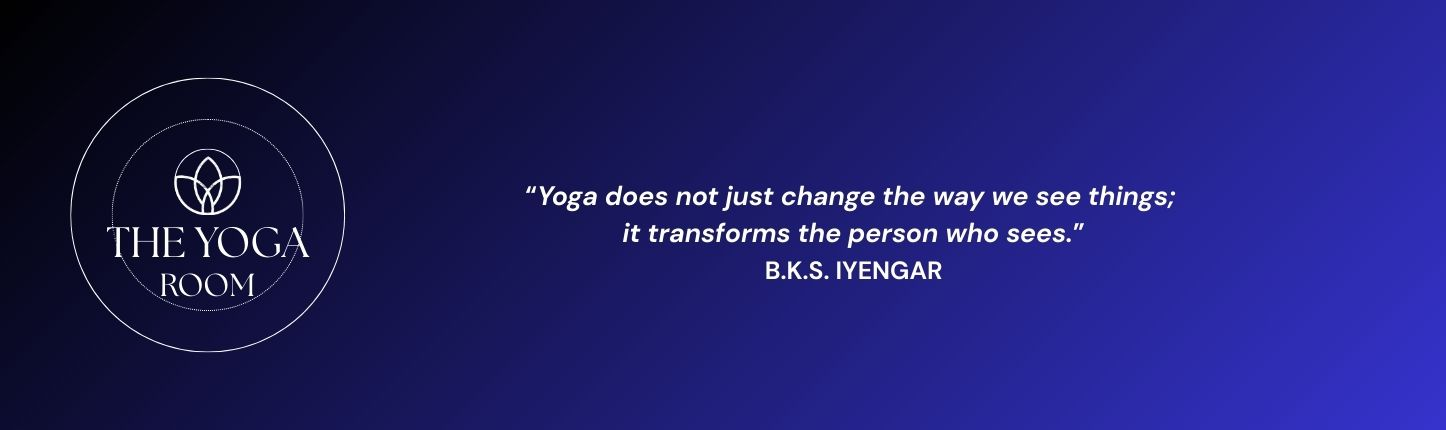
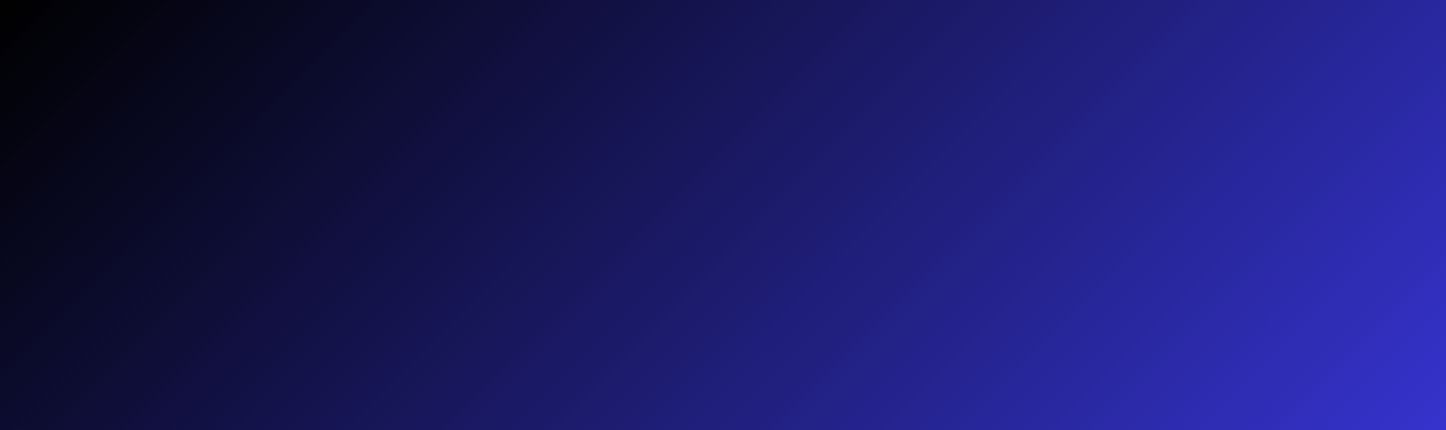
Update content

diff --git a/index.html b/index.html
@@ -5,6 +5,7 @@
 	Free for personal and commercial use under the CCA 3.0 license (html5up.net/license)
 -->
 <html>
+
 	<head>
 		<title>The Yoga Room - Find Your Center</title>
 		<meta charset="utf-8" />
@@ -13,56 +14,23 @@
 	</head>
 	<body class="is-preload">
 
-		<!-- Header -->
-			<section id="header">
-				<header>
-					<span class="image avatar"><img src="images/avatar.jpg" alt="" /></span>
-					<h1 id="logo">Find Your Center</h1>
-					<p><strong>The Yoga Room</strong><br />
-					Wincheringen & Luxembourg</p>
-				</header>
-				<nav id="nav">
-					<ul>
-						<li><a href="#one" class="active">About</a></li>
-						<li><a href="#two">Classes</a></li>
-						<li><a href="#three">Book a Class</a></li>
-						<li><a href="#four">Contact</a></li>
-					</ul>
-				</nav>
-				<footer>
-					<ul class="icons">
-						<li><a href="#" class="icon brands fa-facebook-f"><span class="label">Facebook</span></a></li>
-						<li><a href="#" class="icon brands fa-instagram"><span class="label">Instagram</span></a></li>
-						<li><a href="#" class="icon solid fa-envelope"><span class="label">Email</span></a></li>
-					</ul>
-				</footer>
-			</section>
 
-		<!-- Wrapper -->
-			<div id="wrapper">
 
 				<!-- Main -->
 					<div id="main">
-
 						<!-- One -->
-							<section id="one">
-								<div class="image main" data-position="center">
-									<img src="images/banner.jpg" alt="" />
+							<section class="hero">
+							<div class="hero-content">
+								<div class="logo-container">
+								<img src="images/avatar.jpg" alt="The Yoga Room Logo" class="logo">
 								</div>
-								<div class="container">
-							
-									<h2>About the Practice</h2>
-									</header>
-									<p><strong>The Yoga Room</strong> is your sanctuary for mindful movement and precise alignment. I focus on traditional yoga practices that connect breath, body, and mind.</p>
-
-									<p>Every class meets you where you are - whether beginning your journey or deepening existing practice. My approach emphasizes proper technique, therapeutic benefits, and individual growth.</p>
-
-									<p>Here, yoga isn't about perfection. It's about presence, patience, and discovering your own transformative path through disciplined practice and mindfulness.</p>
-									<p>Yoga is a journey of self-discovery beyond physical postures. Every body is unique - yoga should be accessible, safe, and transformative for all.</p>
-									<p>I blend traditional teachings with modern anatomy, creating a practice that honors ancient wisdom and contemporary knowledge. Whether seeking healing, stress relief, or growth - explore your potential with patience, kindness, and joy.</p>
+								<div class="text-box">
+								<h1>Yoga in small groups — dynamic, precise, and rooted in alignment.</h1>
+								<p>Classes for up to 5 students, with space to move, adjust, and grow in your practice.</p>
+								<a href="#schedule" class="btn">See Schedule</a>
 								</div>
+							</div>
 							</section>
-
 						<!-- Two -->
 							<section id="two">
 								<div class="container">
@@ -78,13 +46,41 @@
 									</ul>
 								</div>
 							</section>
+						
+							<section id="schedule">
+								<div class="container">
+  									<h2>Class Schedule</h2>	
+									<p>Join us for classes designed to meet you where you are, whether you're new to yoga or looking to deepen your practice.</p>
+										<table class="schedule-table">
+											<thead>
+											<tr>
+												<th>Day</th>
+												<th>Time</th>
+												<th>Details</th>
+											</tr>
+											</thead>
+											<tbody>
+											<tr>
+												<td>Tuesday</td>
+												<td>18:00 – 19:15</td>
+												<td>All levels · Max 5 students · €15</td>
+											</tr>
+											<tr>
+												<td>Friday</td>
+												<td>12:15 – 13:30</td>
+												<td>All levels · Max 5 students · €15</td>
+											</tr>
+											</tbody>
+										</table>
 
+										<p style="margin-top: 20px; font-size: 1em;">
+											Booking is required. Reserve your spot below.
+										</p>
+							</section>
 						<!-- Four - Booking Section -->
 							<section id="four">
 								<div class="container">
 									<h3>Book a Class</h3>
-									<p>Reserve your spot for a transformative yoga session. Each class meets you exactly where you are in your practice.</p>
-  
 									<div class="tidycal-embed" data-path="theyogaroom/yoga-class"></div>
 									<script src="https://asset-tidycal.b-cdn.net/js/embed.js" async></script>
 								</div>

diff --git a/assets/css/main.css b/assets/css/main.css
@@ -2444,8 +2444,8 @@ input, select, textarea {
 	}
 
 	table {
-		margin: 0 0 2.25em 0;
-		width: 100%;
+		margin: 0;
+		max-width: 100%;
 	}
 
 		table tbody tr {
@@ -2819,7 +2819,6 @@ input, select, textarea {
 
 	#wrapper {
 		background: #fff;
-		padding-right: 23em;
 	}
 
 /* Main */
@@ -3314,3 +3313,103 @@ input, select, textarea {
 			}
 
 	}
+.hero {
+  background: linear-gradient(to right, #0f0c29, #302b63, #24243e);
+  color: white;
+  padding: 40px 20px;
+}
+
+.hero-content {
+  max-width: 1200px;
+  margin: 0 auto;
+  display: flex;
+  align-items: center;
+  justify-content: center;
+  flex-wrap: wrap;
+  gap: 0px;
+}
+
+.logo-container {
+  flex: 1 1 100px;
+  display: flex;
+  justify-content: center;
+  align-items: center;
+
+}
+
+.logo {
+  max-width: 250px;
+  height: auto;
+}
+
+.text-box {
+  flex: 1 1 300px;
+  background-color: transparent;
+  padding: 0px;
+  border-radius: 16px;
+  text-align: left;
+}
+
+.text-box h1 {
+  font-size: 1.8rem;
+  margin-bottom: 15px;
+}
+
+.text-box p {
+  font-size: 1.1rem;
+  margin-bottom: 20px;
+}
+
+.btn {
+  background-color: white;
+  color: black;
+  padding: 10px 20px;
+  border-radius: 8px;
+  text-decoration: none;
+  font-weight: bold;
+  transition: background-color 0.3s ease;
+}
+
+.btn:hover {
+  background-color: #ddd;
+}
+
+
+.schedule-section {
+  padding: 40px 20px;
+  text-align: center;
+  background-color: #fdfdfd;
+}
+
+.schedule-section h2 {
+  font-size: 2em;
+  margin-bottom: 20px;
+}
+
+.schedule-table {
+  margin: 0 auto;
+  border-collapse: collapse;
+  width: 100%;
+  max-width: 600px;
+}
+
+.schedule-table th,
+.schedule-table td {
+  border: 1px solid #ccc;
+  padding: 12px 16px;
+  text-align: center;
+  font-size: 1em;
+}
+
+.schedule-table th {
+  background-color: #f0f0f0;
+  font-weight: bold;
+}
+
+@media (max-width: 600px) {
+  .schedule-table th,
+  .schedule-table td {
+    font-size: 0.9em;
+    padding: 10px;
+  }
+}
